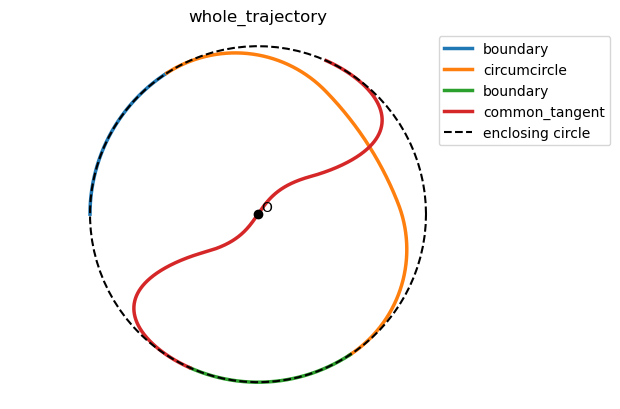
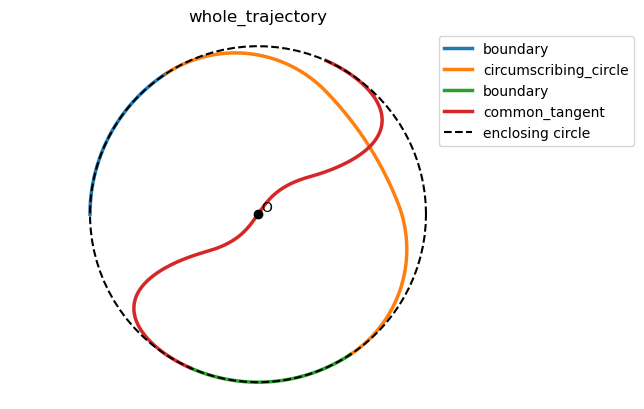
Spelling correction

diff --git a/control_data_collecting_tool/README.md b/control_data_collecting_tool/README.md
@@ -229,7 +229,7 @@ You can create an original mask to specify the data collection range for the hea
 
   The `reversal_loop_circle` aims to generate a trajectory with the largest possible radius of curvature within a radius `trajectory_radius`, allowing data collection in a confined area without significantly reducing speed.
 
-  The `reversal_loop_circle` is primarily generated by connecting the following three components, `common tangent`, `circumcircle` and `boundary` as shown in the following picture.
+  The `reversal_loop_circle` is primarily generated by connecting the following three components, `common tangent`, `circumscribing_circle` and `boundary` as shown in the following picture.
 
     <img src="resource/whole_trajectory.png" width="480">
 
@@ -244,18 +244,18 @@ You can create an original mask to specify the data collection range for the hea
 
       <img src="resource/common_tangent_counter_clockwise.png" width="480">
 
-  - `circumcircle`
+  - `circumscribing_circle`
 
-    The `circumcircle` part is created by drawing the common circumscribed circle of the circles.
+    The `circumscribing_circle` part is created by drawing the common circumscribed circle of the circles.
     This section is generated to achieve nearly straight movement within the outer circle while minimizing the increase in curvature.
 
-      <img src="resource/circumcircle.png" width="480">
+      <img src="resource/circumscribing_circle.png" width="480">
 
-      <img src="resource/circumcircle_counter_clockwise.png" width="480">
+      <img src="resource/circumscribing_circle_counter_clockwise.png" width="480">
 
   - `boundary`
 
-    The `boundary` part is used to connect the `common tangent` and the `circumcircle` sections.
+    The `boundary` part is used to connect the `common tangent` and the `circumscribing_circle` sections.
 
       <img src="resource/boundary.png" width="480">
 
